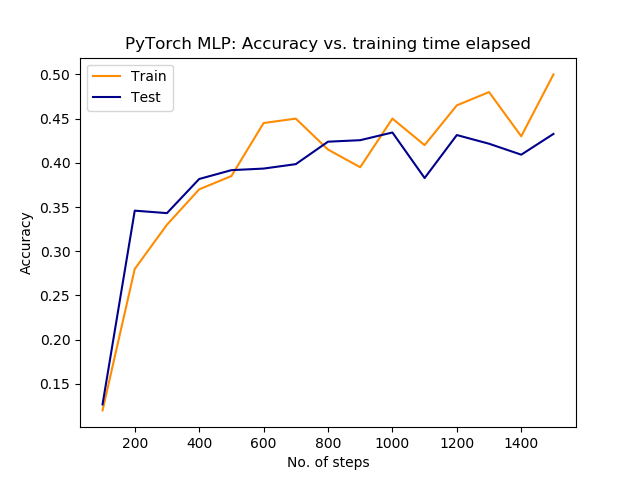
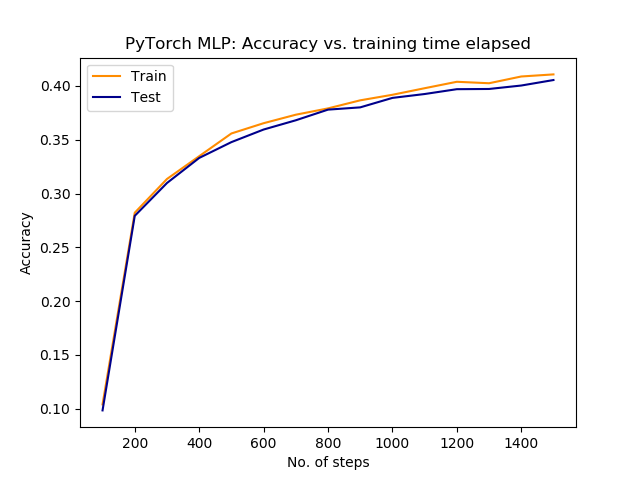
added all results in folders

diff --git a/assignment_1/code/train_mlp_numpy.py b/assignment_1/code/train_mlp_numpy.py
@@ -190,7 +190,7 @@ def train():
   # np.save(path + 'test_loss', test_loss)
   # np.save(path + 'test_acc', test_acc)
 
-  
+
   np.save('train_loss', train_loss)
   np.save('train_acc', train_acc)
   np.save('test_loss', test_loss)

diff --git a/assignment_1/code/graphs.py b/assignment_1/code/graphs.py
@@ -83,4 +83,4 @@ def get_graphs(model):
                 )
 
 
-get_graphs(4)
+get_graphs(2)
